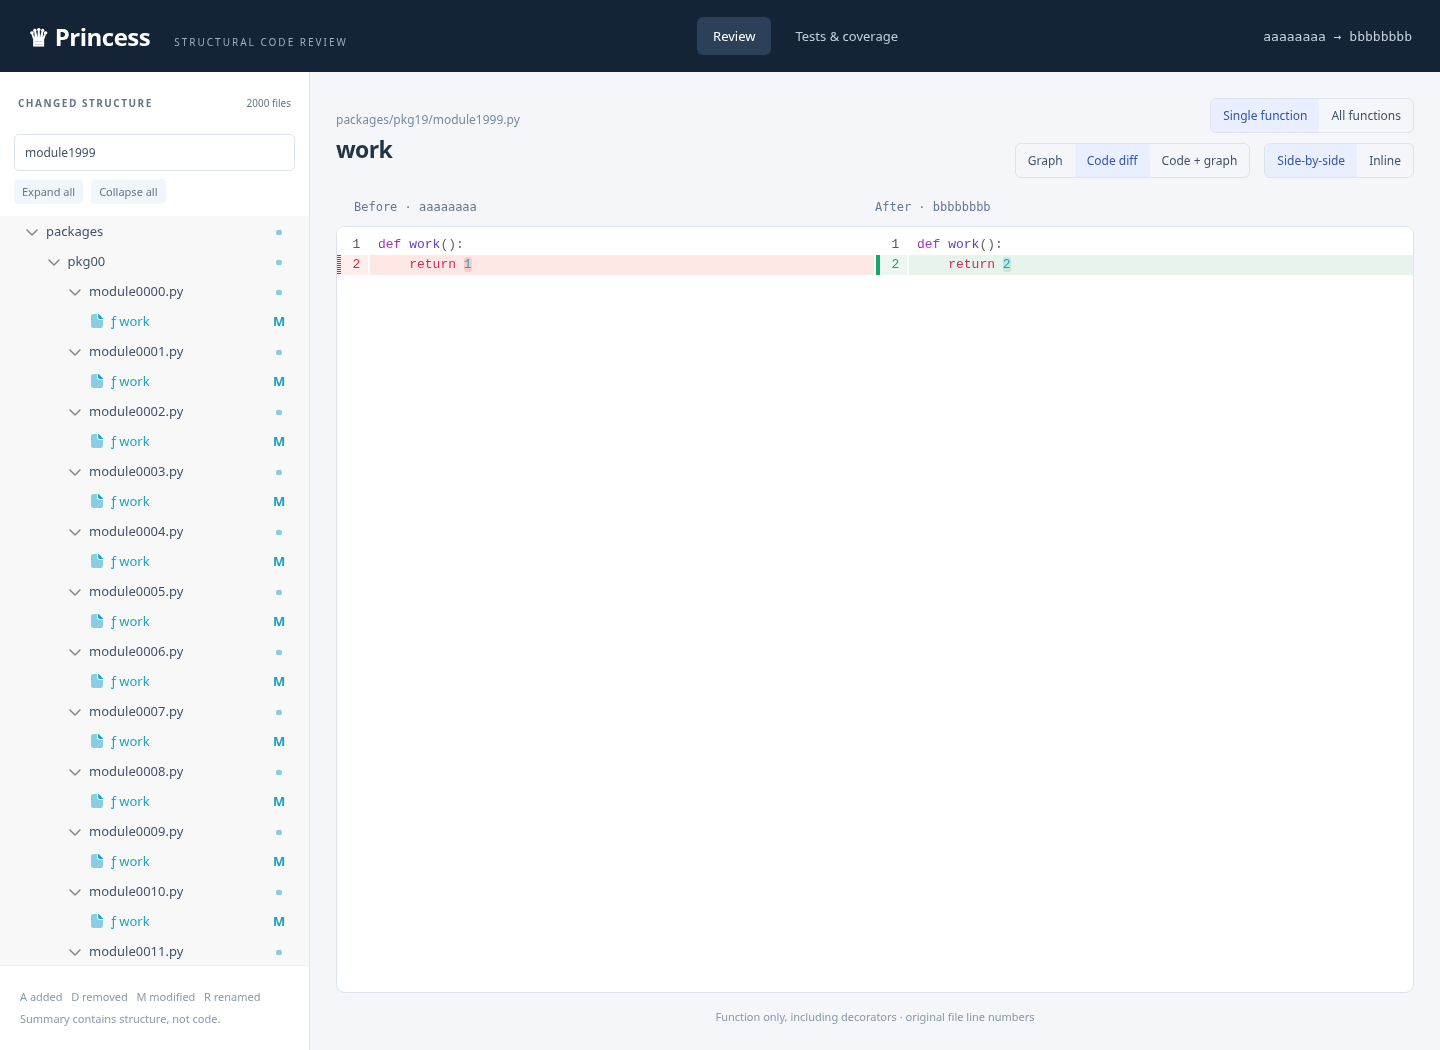
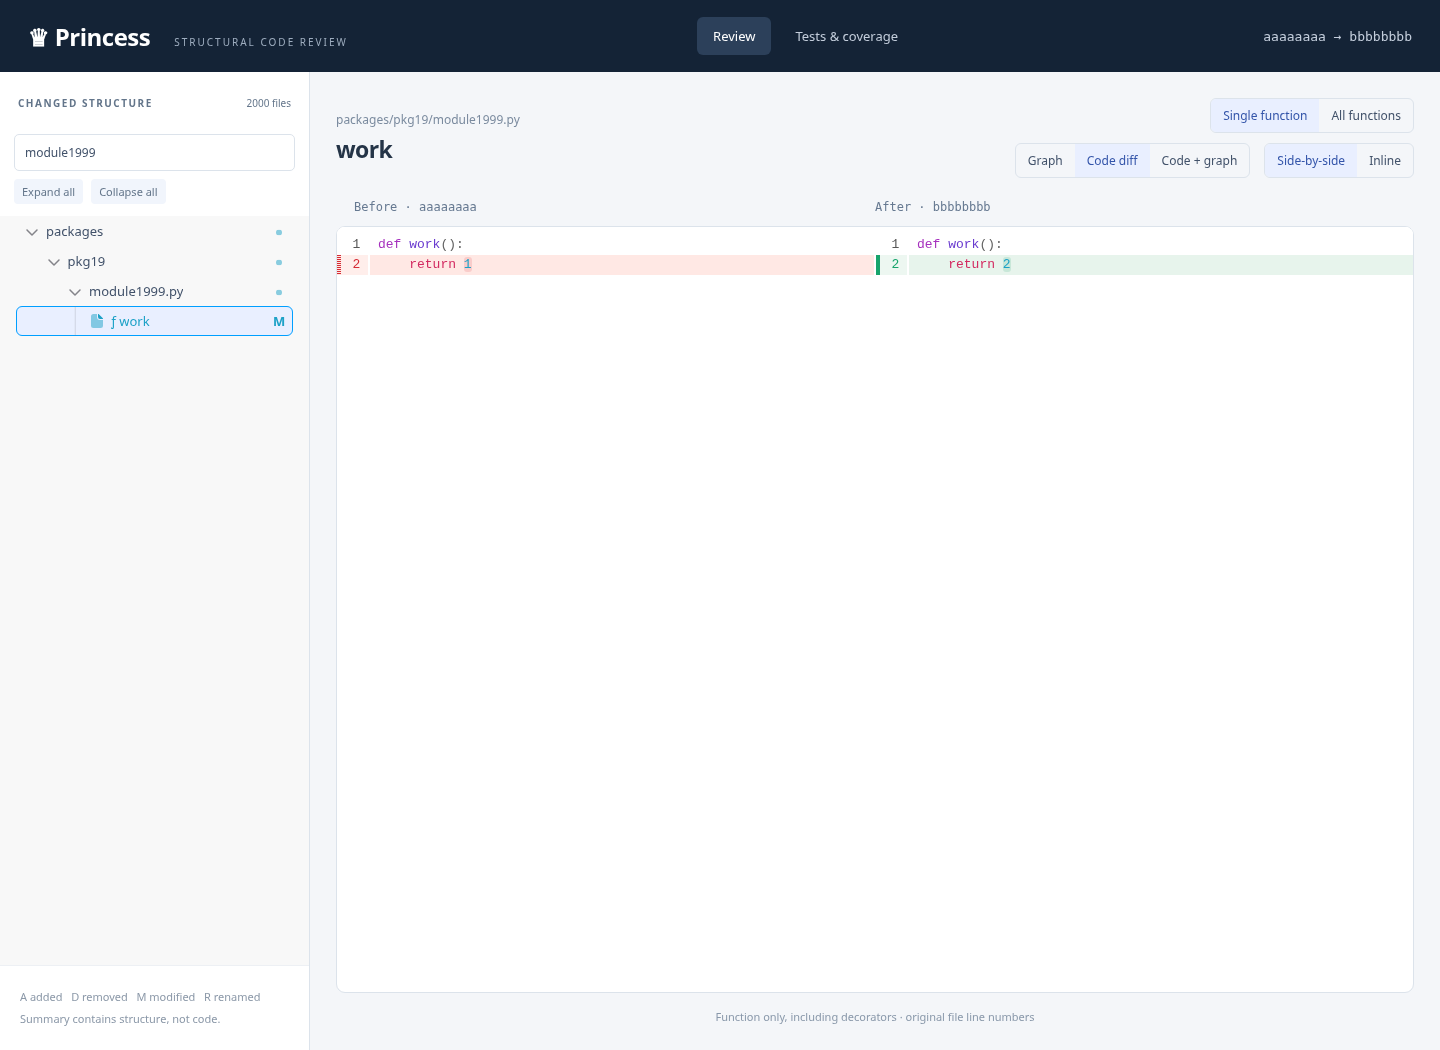
Keep review tree search active when selecting a match

Changed region(s): [[0.0625, 0.3352, 0.125, 0.9143], [0.0938, 0.2743, 0.125, 0.3048]]

diff --git a/src/ReviewTree.svelte b/src/ReviewTree.svelte
@@ -42,6 +42,9 @@
     tree = new FileTree({ paths: data.paths, gitStatus: data.statuses,
       initialExpansion: "closed", initialExpandedPaths: directoryPaths(), flattenEmptyDirectories: true, stickyFolders: true,
       search: false, fileTreeSearchMode: "hide-non-matches", searchBlurBehavior: "retain",
+      // Pierre closes a search session on activation. Our persistent filter input
+      // remains the source of truth until the user clears it.
+      onSearchChange: value => { if (value === null) queueMicrotask(() => { if (query) tree?.setSearch(query); }); },
       density: "default", icons: "minimal", overscan: 8,
       renderRowDecoration: ({ row }) => {
         const entry = data.rows.get(normalize(row.path));
